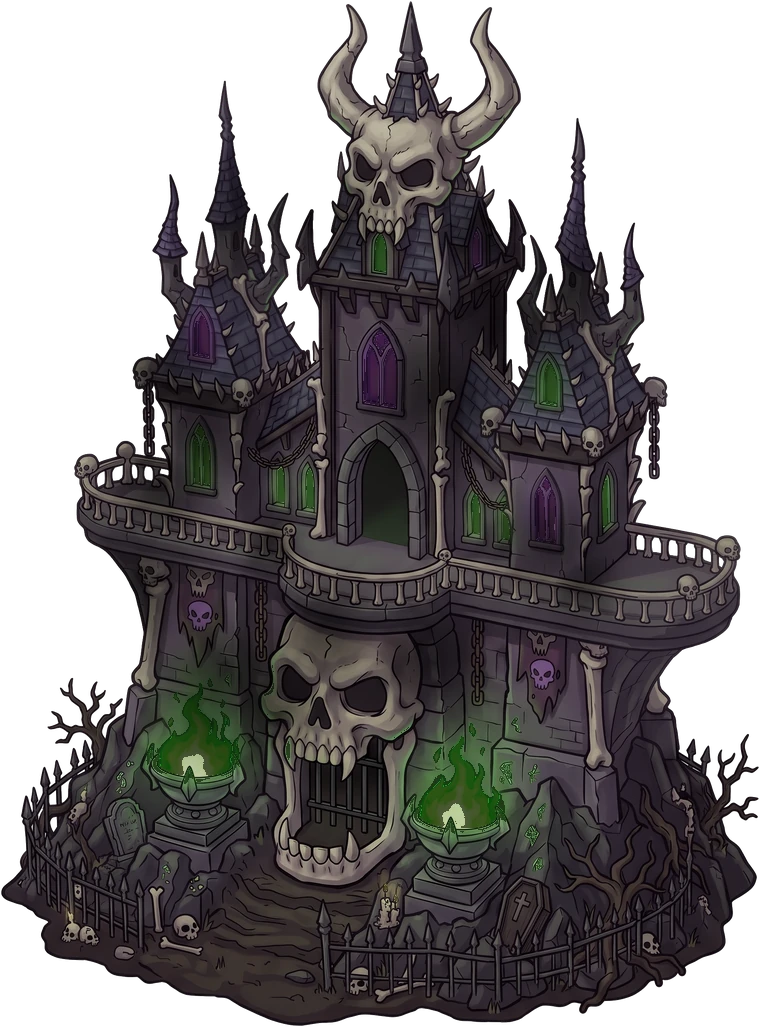
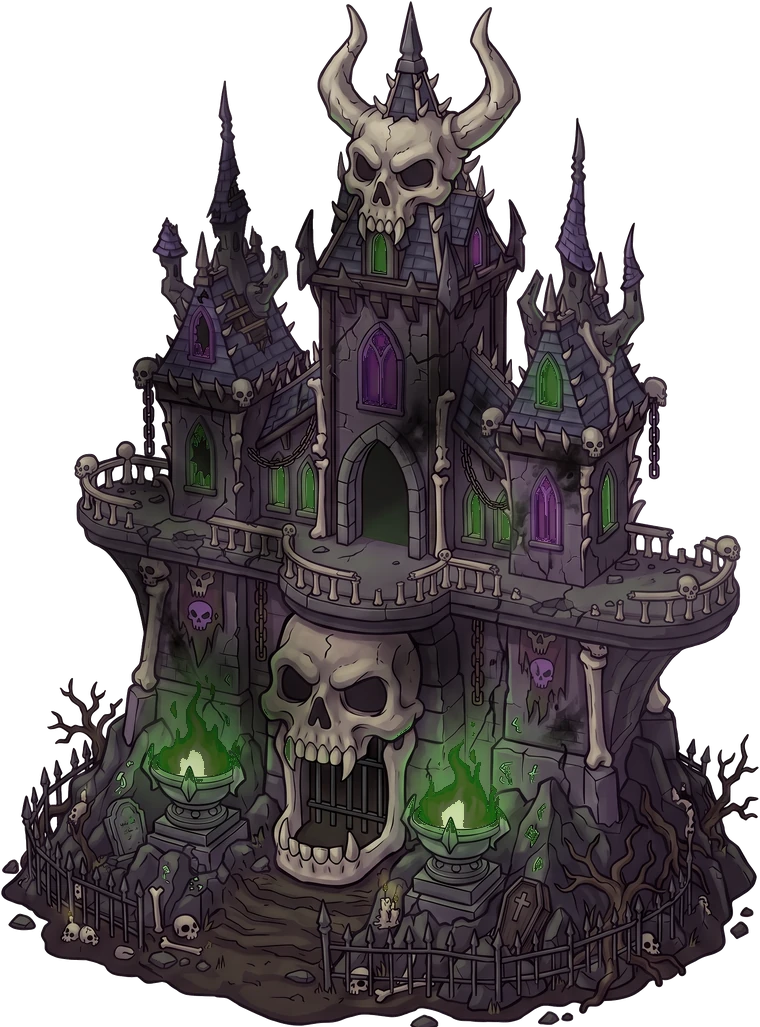
Kale orta hasar (Gemini, ham/nm_kale_v3_hasar2.jpg) 2. evre; 3-4. evre ağır hasar çizimi gelene dek ondan koddan (yayın 528)

diff --git a/sinir-kalesi/index.html b/sinir-kalesi/index.html
@@ -17,7 +17,7 @@
 <canvas id="game" aria-label="Sınır Kalesi oyun alanı"></canvas>
 <script>
   // Sürüm damgası: her yayında artırılır; tarayıcı eski önbellek kopyasını kullanmaz (js ve görseller).
-  window.SURUM = '527';
+  window.SURUM = '528';
   // dil: kayıtlı seçim (yoksa Türkçe); tr/en dışındakiler için çeviri sözlüğü dil.js'ten önce yüklenir
   window.__dilYukle = (function () {
     var l = null; try { l = localStorage.getItem('sinirKalesi.lang'); } catch (e) {}

diff --git a/sinir-kalesi/yayin.html b/sinir-kalesi/yayin.html
@@ -11,7 +11,7 @@
 <canvas id="game" aria-label="Sınır Kalesi oyun alanı"></canvas>
 <script>
   // Sürüm damgası: her yayında artırılır; tarayıcı eski önbellek kopyasını kullanmaz (js ve görseller).
-  window.SURUM = '527';
+  window.SURUM = '528';
   // dil: kayıtlı seçim (yoksa Türkçe); tr/en dışındakiler için çeviri sözlüğü dil.js'ten önce yüklenir
   window.__dilYukle = (function () {
     var l = null; try { l = localStorage.getItem('sinirKalesi.lang'); } catch (e) {}

diff --git a/varliklar/kale_v3_isle.py b/varliklar/kale_v3_isle.py
@@ -9,26 +9,30 @@ from PIL import Image, ImageFilter
 from scipy import ndimage
 
 D = os.path.dirname(os.path.abspath(__file__)); IMG = os.path.join(D, '..', 'sinir-kalesi', 'img'); W_OUT = 760
-src = np.asarray(Image.open(os.path.join(D, 'ham', 'nm_kale_v3.jpg')).convert('RGB')).astype(float)
-mn, mx = src.min(2), src.max(2)
-white = (mn > 222) & (mx - mn < 26)                    # beyaza yakın ve renksiz
-lab, _ = ndimage.label(white)
-edge = set(np.unique(np.concatenate([lab[0], lab[-1], lab[:, 0], lab[:, -1]]))) - {0}
-bg = np.isin(lab, list(edge))
-lab2, n2 = ndimage.label(white & ~bg)                  # korkuluk aralarında kalan kapalı beyaz cepler (saf beyaz, en az 25 px)
-sz = ndimage.sum(np.ones_like(mn), lab2, range(1, n2 + 1)); pure = ndimage.mean(mn, lab2, range(1, n2 + 1))
-holes = [i + 1 for i in range(n2) if sz[i] >= 25 and pure[i] > 236]
-bg |= np.isin(lab2, holes)
-bg = ndimage.binary_opening(bg, iterations=1)
-a = (~bg).astype(float)
-a = ndimage.gaussian_filter(a, 0.8); a = np.clip((a - 0.25) / 0.5, 0, 1)   # yumuşak kenar
-# kenardaki açık hale: beyazlığı kadar saydamlaştır
-soft = (a < 1) & (a > 0); a[soft] *= np.clip((255 - mn[soft]) / 60, 0.3, 1)
-ys, xs = np.where(a > 0.3); box = (xs.min() - 3, ys.min() - 3, xs.max() + 4, ys.max() + 4)
-rgba = np.dstack([src, a * 255]).clip(0, 255).astype(np.uint8)
-base = Image.fromarray(rgba, 'RGBA').crop(box)
-H_OUT = round(W_OUT * base.height / base.width)
-base = base.resize((W_OUT, H_OUT), Image.LANCZOS)
+def cut(name, box=None):
+    """beyaz zemini kenardan taşma doldurmayla siler (+ korkuluk aralarındaki kapalı beyaz cepler); box verilirse aynı kadraj"""
+    src = np.asarray(Image.open(os.path.join(D, 'ham', name)).convert('RGB')).astype(float)
+    mn, mx = src.min(2), src.max(2)
+    white = (mn > 222) & (mx - mn < 26)                    # beyaza yakın ve renksiz
+    lab, _ = ndimage.label(white)
+    edge = set(np.unique(np.concatenate([lab[0], lab[-1], lab[:, 0], lab[:, -1]]))) - {0}
+    bg = np.isin(lab, list(edge))
+    lab2, n2 = ndimage.label(white & ~bg)                  # korkuluk aralarında kalan kapalı beyaz cepler (saf beyaz, en az 25 px)
+    sz = ndimage.sum(np.ones_like(mn), lab2, range(1, n2 + 1)); pure = ndimage.mean(mn, lab2, range(1, n2 + 1))
+    bg |= np.isin(lab2, [i + 1 for i in range(n2) if sz[i] >= 25 and pure[i] > 236])
+    bg = ndimage.binary_opening(bg, iterations=1)
+    a = ndimage.gaussian_filter((~bg).astype(float), 0.8); a = np.clip((a - 0.25) / 0.5, 0, 1)   # yumuşak kenar
+    soft = (a < 1) & (a > 0); a[soft] *= np.clip((255 - mn[soft]) / 60, 0.3, 1)   # kenardaki açık hale saydamlaşır
+    if box is None: ys, xs = np.where(a > 0.3); box = (xs.min() - 3, ys.min() - 3, xs.max() + 4, ys.max() + 4)
+    im = Image.fromarray(np.dstack([src, a * 255]).clip(0, 255).astype(np.uint8), 'RGBA').crop(box)
+    return im.resize((W_OUT, round(W_OUT * im.height / im.width)), Image.LANCZOS), box
+
+
+base, box = cut('nm_kale_v3.jpg')
+H_OUT = base.height
+# 13 Eki: orta hasar Gemini'de çizildi (ham/nm_kale_v3_hasar2.jpg, aynı kadraj); ağır hasar gelene dek 3-4. evre ondan koddan
+dmg2 = cut('nm_kale_v3_hasar2.jpg', box)[0] if os.path.exists(os.path.join(D, 'ham', 'nm_kale_v3_hasar2.jpg')) else None
+dmg3 = cut('nm_kale_v3_hasar3.jpg', box)[0] if os.path.exists(os.path.join(D, 'ham', 'nm_kale_v3_hasar3.jpg')) else None
 
 def stage(im, k, soot, win):
     x = np.asarray(im).astype(float); rgb, al = x[..., :3], x[..., 3:]
@@ -43,10 +47,12 @@ def stage(im, k, soot, win):
     rgb = rgb * (1 - 0.55 * m[..., None])
     return Image.fromarray(np.dstack([rgb, al]).clip(0, 255).astype(np.uint8), 'RGBA')
 
-outs = {1: base, 2: stage(base, 0.12, 6, 0.85), 3: stage(base, 0.25, 12, 0.6), 4: stage(base, 0.38, 18, 0.35)}
+outs = {1: base, 2: dmg2 or stage(base, 0.12, 6, 0.85),
+        3: dmg3 or stage(dmg2 or base, 0.14 if dmg2 else 0.25, 6 if dmg2 else 12, 0.7 if dmg2 else 0.6),
+        4: stage(dmg3, 0.15, 6, 0.6) if dmg3 else stage(dmg2 or base, 0.3 if dmg2 else 0.38, 12 if dmg2 else 18, 0.4 if dmg2 else 0.35)}
 meta = json.load(open(os.path.join(IMG, 'meta.json')))
 for n, im in outs.items():
     im.save(os.path.join(IMG, f'castle_keep_{n}.webp'), 'WEBP', quality=90, method=6)
     meta[f'castle_keep_{n}'] = [W_OUT, H_OUT]
 json.dump(meta, open(os.path.join(IMG, 'meta.json'), 'w'), ensure_ascii=False)
-print(W_OUT, H_OUT, box)
+print(W_OUT, H_OUT, box, 'orta' if dmg2 else '-', 'ağır' if dmg3 else '-')
